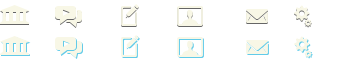
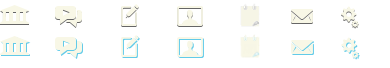
add calendar button and scaffold

diff --git a/app/assets/stylesheets/sections/nav.sass b/app/assets/stylesheets/sections/nav.sass
@@ -77,16 +77,18 @@ header.topbar
       background-position: -100px 0px  
     #nav_profile span
       background-position: -160px 0px 
+    #nav_calendar span
+      background-position: -221px 0px
     #nav_inbox
       span
-        background-position: -232px 0px
+        background-position: -277px 0px
       &.messages
         span 
-          background-position: -220px 0px
+          background-position: -265px 0px
         small      
           right: 33px
     #nav_account span
-      background-position: -278px 0px 
+      background-position: -277px 0px 
     small      
       top: -8px
       right: -8px

diff --git a/db/schema.rb b/db/schema.rb
@@ -11,7 +11,7 @@
 #
 # It's strongly recommended to check this file into your version control system.
 
-ActiveRecord::Schema.define(:version => 20120113073006) do
+ActiveRecord::Schema.define(:version => 20120122192034) do
 
   create_table "activity_messages", :force => true do |t|
     t.integer  "user_id"
@@ -30,6 +30,14 @@ ActiveRecord::Schema.define(:version => 20120113073006) do
   end
 
   add_index "authentications", ["user_id"], :name => "index_authentications_on_user_id"
+
+  create_table "calendars", :force => true do |t|
+    t.string   "gmail_address"
+    t.string   "gmail_password"
+    t.integer  "schedule_id"
+    t.datetime "created_at",     :null => false
+    t.datetime "updated_at",     :null => false
+  end
 
   create_table "contacts", :force => true do |t|
     t.string   "name"

diff --git a/config/routes.rb b/config/routes.rb
@@ -1,5 +1,7 @@
 Studyhall::Application.routes.draw do
 
+  resources :calendars
+
   mount RailsAdmin::Engine => '/admin', :as => 'rails_admin'
 
   resources :notes do
